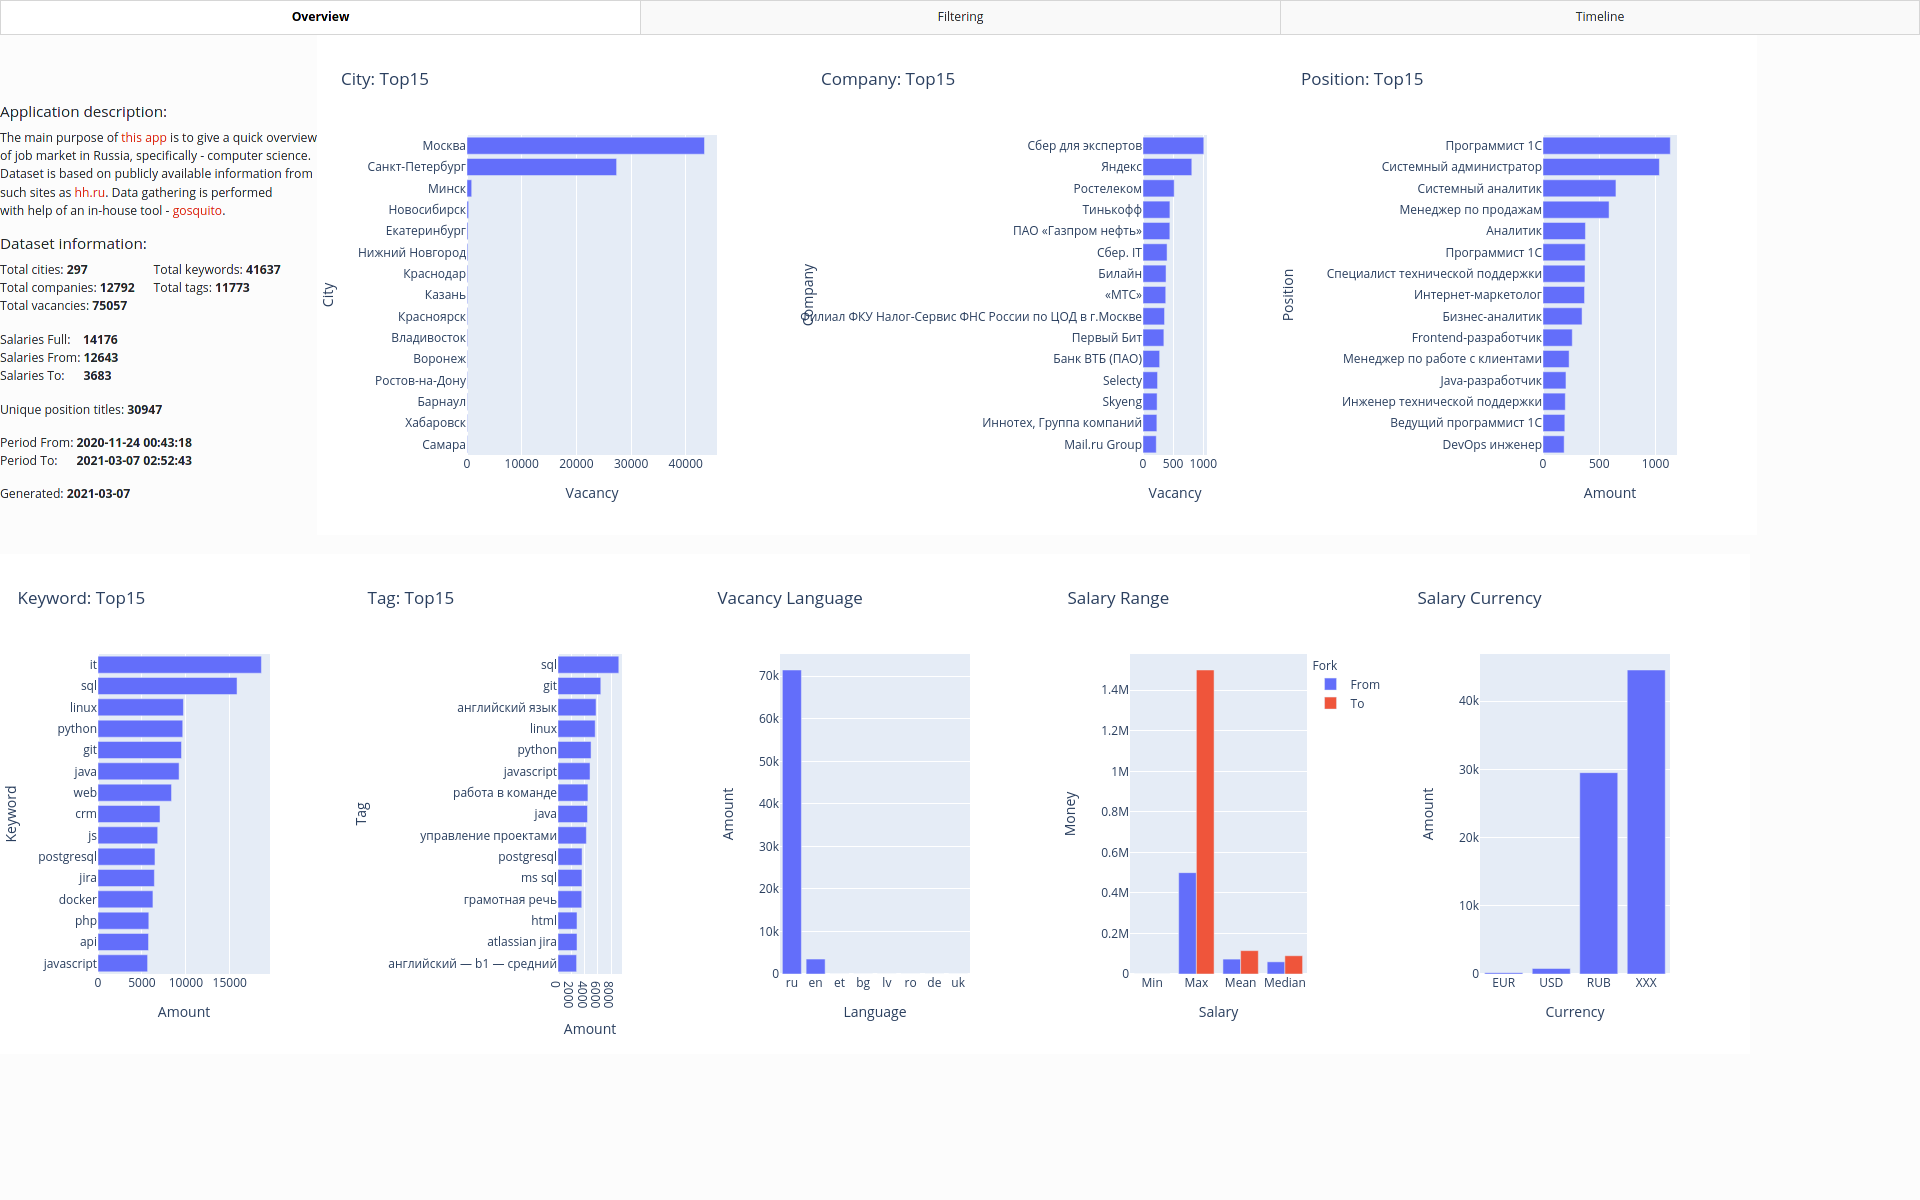
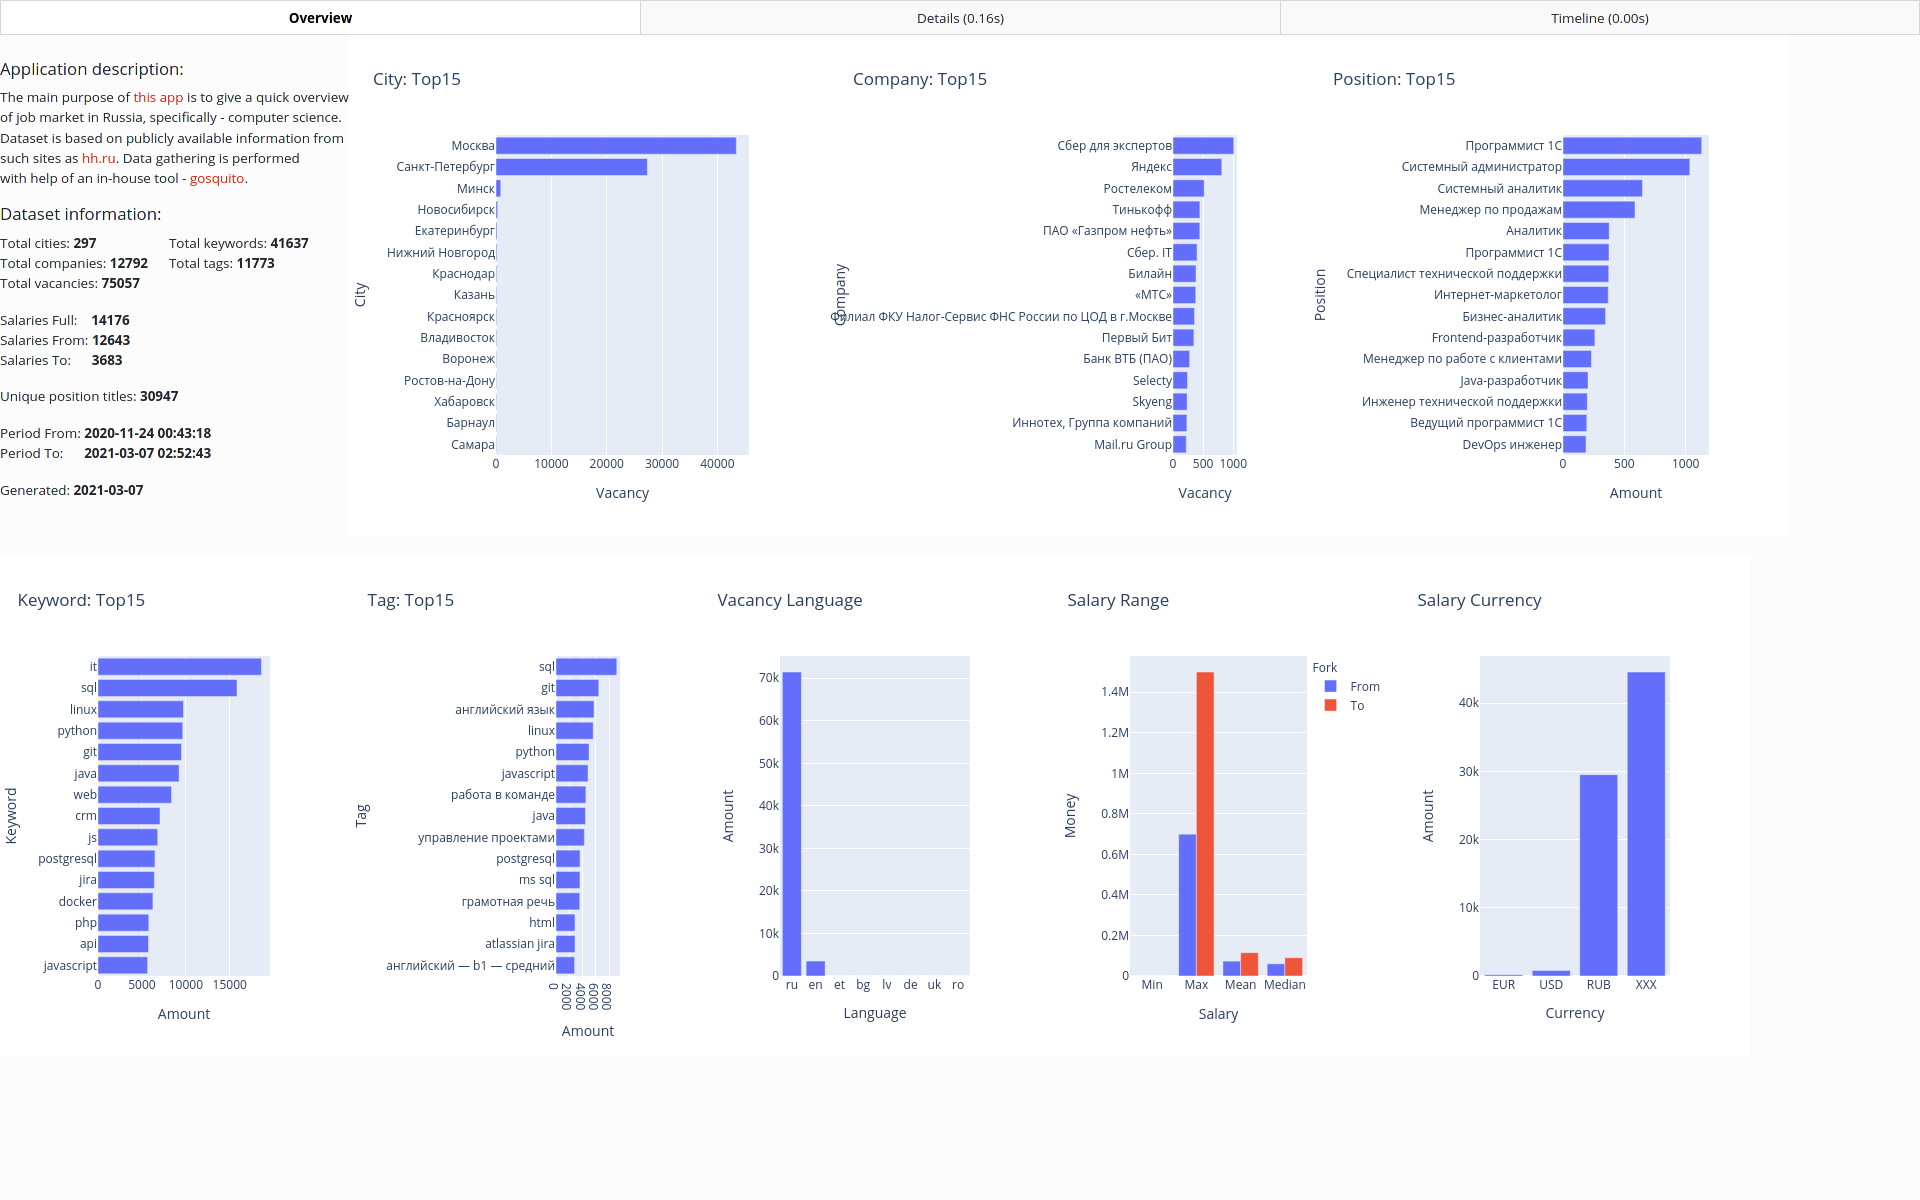
ui improvements

diff --git a/lcn/__main__.py b/lcn/__main__.py
@@ -45,23 +45,30 @@ def get_top_horizontal_fig(data, limit, labels, title, height=500, width=480):
         width=width
     )
 
-    fig.update_xaxes(tickformat="d")
+    fig.update_xaxes(tickformat="d", automargin=False)
 
     return fig
 
 
 def get_top_vertical_fig(data, labels, title, height=500, width=400):
+    if data.size > 0:
+        x_values = data.keys()
+        y_values = data.values
+    else:
+        x_values = [0]
+        y_values = [0]
+
     fig = px.bar(
         data,
-        x=data.keys(),
-        y=data.values,
+        x=x_values,
+        y=y_values,
         labels=labels,
         title=title,
         height=height,
         width=width
     )
 
-    fig.update_xaxes(tickformat="d")
+    fig.update_xaxes(tickformat="d", automargin=False)
 
     return fig
 
@@ -113,7 +120,7 @@ def get_salary_fig(data, height=500, width=400):
         width=width
     )
 
-    fig.update_xaxes(tickformat="d")
+    fig.update_xaxes(tickformat="d", automargin=False)
 
     return fig
 
@@ -174,15 +181,15 @@ def main():
     app.layout = html.Div(children=[
         dcc.Tabs(id="tabs", value="tab1", children=[
             dcc.Tab(label="Overview", id="tab1", value="tab1", style=tab_style, selected_style=tab_selected_style),
-            dcc.Tab(label="Filtering", id="tab2", value="tab2", style=tab_style, selected_style=tab_selected_style),
+            dcc.Tab(label="Details", id="tab2", value="tab2", style=tab_style, selected_style=tab_selected_style),
             dcc.Tab(label="Timeline", id="tab3", value="tab3", style=tab_style, selected_style=tab_selected_style),
         ], style=tabs_style),
-        html.Div(id='tabs-content')
+        html.Div(id="tabs-content")
     ])
 
-    @app.callback(Output('tabs-content', 'children'), Input('tabs', 'value'))
+    @app.callback(Output("tabs-content", "children"), Input("tabs", "value"))
     def render_content(tab):
-        if tab == 'tab1':
+        if tab == "tab1":
             return html.Div(children=[
                 html.Div(children=[
                     html.Div(children=[
@@ -328,7 +335,7 @@ def main():
                 ], style=default_style)
             ])
 
-        elif tab == 'tab2':
+        elif tab == "tab2":
             return html.Div(children=[
                 html.Div(children=[
                     html.Div(children=[
@@ -467,72 +474,96 @@ def main():
                 ])
             ])
 
-        elif tab == 'tab3':
+        elif tab == "tab3":
             return html.Div(children=[
-                dcc.Graph(
-                    id="tab2-timeline-year-graph",
-                    figure=get_top_vertical_fig(
-                        df["year"].value_counts(ascending=True),
-                        {"index": "Year", "y": "Amount"},
-                        "Per Year",
-                        width=500
+                html.Div(children=[
+                    html.H5("Filters:"),
+                    dcc.Input(
+                        id="tab3-position-input",
+                        type="text",
+                        placeholder="Python"
                     ),
-                    style=default_style
-                ),
-                dcc.Graph(
-                    id="tab2-timeline-month-graph",
-                    figure=get_top_vertical_fig(
-                        df["month"].value_counts(ascending=True),
-                        {"index": "Month", "y": "Amount"},
-                        "Per Month",
-                        width=500
+                    dcc.Input(
+                        id="tab3-city-input",
+                        type="text",
+                        placeholder="Москва"
                     ),
-                    style=default_style
-                ),
-                dcc.Graph(
-                    id="tab2-timeline-day-graph",
-                    figure=get_top_vertical_fig(
-                        df["day"].value_counts(ascending=True),
-                        {"index": "Month Day", "y": "Amount"},
-                        "Per Day",
-                        width=500
+                    dcc.Input(
+                        id="tab3-company-input",
+                        type="text",
+                        placeholder="Яндекс",
                     ),
-                    style=default_style
-                ),
-                dcc.Graph(
-                    id="tab2-timeline-weekday-graph",
-                    figure=get_top_vertical_fig(
-                        df["week_day"].value_counts(ascending=True),
-                        {"index": "Week Day", "y": "Amount"},
-                        "Per Week Day",
-                        width=500
+                ], style={"width": "100%", "display": "flex", "align-items": "center", "justify-content": "center"}),
+                html.Div(children=[
+                    dcc.Graph(
+                        id="tab3-timeline-year-graph",
+                        figure=get_top_vertical_fig(
+                            df["year"].value_counts(ascending=True),
+                            {"index": "Year", "y": "Amount"},
+                            "Per Year",
+                            width=500
+                        ),
+                        style=default_style
                     ),
-                    style=default_style
-                ),
-                dcc.Graph(
-                    id="tab2-timeline-hour-graph",
-                    figure=get_top_vertical_fig(
-                        df["hour"].value_counts(ascending=True),
-                        {"index": "Hour", "y": "Amount"},
-                        "Per Hour",
-                        width=500
+                    dcc.Graph(
+                        id="tab3-timeline-month-graph",
+                        figure=get_top_vertical_fig(
+                            df["month"].value_counts(ascending=True),
+                            {"index": "Month", "y": "Amount"},
+                            "Per Month",
+                            width=500
+                        ),
+                        style=default_style
                     ),
-                    style=default_style
-                ),
-                dcc.Graph(
-                    id="tab2-timeline-minute-graph",
-                    figure=get_top_vertical_fig(
-                        df["minute"].value_counts(ascending=True),
-                        {"index": "Minute", "y": "Amount"},
-                        "Per Minute",
-                        width=500
+                    dcc.Graph(
+                        id="tab3-timeline-day-graph",
+                        figure=get_top_vertical_fig(
+                            df["day"].value_counts(ascending=True),
+                            {"index": "Month Day", "y": "Amount"},
+                            "Per Day",
+                            width=500
+                        ),
+                        style=default_style
+                    )
+                ]),
+                html.Div(children=[
+                    dcc.Graph(
+                        id="tab3-timeline-weekday-graph",
+                        figure=get_top_vertical_fig(
+                            df["week_day"].value_counts(ascending=True),
+                            {"index": "Week Day", "y": "Amount"},
+                            "Per Week Day",
+                            width=500
+                        ),
+                        style=default_style
                     ),
-                    style=default_style
-                )
+                    dcc.Graph(
+                        id="tab3-timeline-hour-graph",
+                        figure=get_top_vertical_fig(
+                            df["hour"].value_counts(ascending=True),
+                            {"index": "Hour", "y": "Amount"},
+                            "Per Hour",
+                            width=500
+                        ),
+                        style=default_style
+                    ),
+                    dcc.Graph(
+                        id="tab3-timeline-minute-graph",
+                        figure=get_top_vertical_fig(
+                            df["minute"].value_counts(ascending=True),
+                            {"index": "Minute", "y": "Amount"},
+                            "Per Minute",
+                            width=500
+                        ),
+                        style=default_style
+                    )
+                ])
             ])
 
     # ---------------------------------------------------------------------------------
     # Callback functions.
+
+    # Tab 2.
     @app.callback(
         [
             Output("tab2", "label"),
@@ -614,7 +645,7 @@ def main():
         end_time = time.time()
 
         figs = [
-            "Filtering ({:.2f}s)".format(end_time - begin_time),
+            "Details ({:.2f}s)".format(end_time - begin_time),
             get_top_horizontal_fig(
                 data["city"].value_counts(ascending=True),
                 default_top_limit,
@@ -649,6 +680,85 @@ def main():
             ),
             get_salary_fig(
                 data
+            )
+        ]
+
+        return figs
+
+    # Tab 3.
+    @app.callback(
+        [
+            Output("tab3", "label"),
+            Output("tab3-timeline-year-graph", "figure"),
+            Output("tab3-timeline-month-graph", "figure"),
+            Output("tab3-timeline-day-graph", "figure"),
+            Output("tab3-timeline-weekday-graph", "figure"),
+            Output("tab3-timeline-hour-graph", "figure"),
+            Output("tab3-timeline-minute-graph", "figure"),
+        ],
+        [
+            Input("tab3-position-input", "value"),
+            Input("tab3-city-input", "value"),
+            Input("tab3-company-input", "value")
+        ]
+    )
+    def update_tab3(*args):
+        begin_time = time.time()
+
+        position, city, company = args
+        data = df
+
+        if position:
+            position_escaped = re.escape(position)
+            data = data[data["title"].str.match(position_escaped, case=False)]
+
+        if city:
+            city_escaped = re.escape(city)
+            data = data[data["city"].str.match(city_escaped, case=False)]
+
+        if company:
+            company_escaped = re.escape(company)
+            data = data[data["company"].str.match(company_escaped, case=False)]
+
+        end_time = time.time()
+
+        figs = [
+            "Timeline ({:.2f}s)".format(end_time - begin_time),
+            get_top_vertical_fig(
+                data["year"].value_counts(ascending=True),
+                {"index": "Year", "y": "Amount"},
+                "Per Year",
+                width=500
+            ),
+            get_top_vertical_fig(
+                data["month"].value_counts(ascending=True),
+                {"index": "Month", "y": "Amount"},
+                "Per Month",
+                width=500
+            ),
+            get_top_vertical_fig(
+                data["day"].value_counts(ascending=True),
+                {"index": "Month Day", "y": "Amount"},
+                "Per Day",
+                width=500
+            ),
+            get_top_vertical_fig(
+                data["week_day"].value_counts(ascending=True),
+                {"index": "Week Day", "y": "Amount"},
+                "Per Week Day",
+                width=500
+            ),
+            get_top_vertical_fig(
+                data["hour"].value_counts(ascending=True),
+                {"index": "Hour", "y": "Amount"},
+                "Per Hour",
+                width=500
+            ),
+            get_top_vertical_fig(
+                data["minute"].value_counts(ascending=True),
+                {"index": "Minute", "y": "Amount"},
+                "Per Minute",
+                width=500
             )
         ]
 
